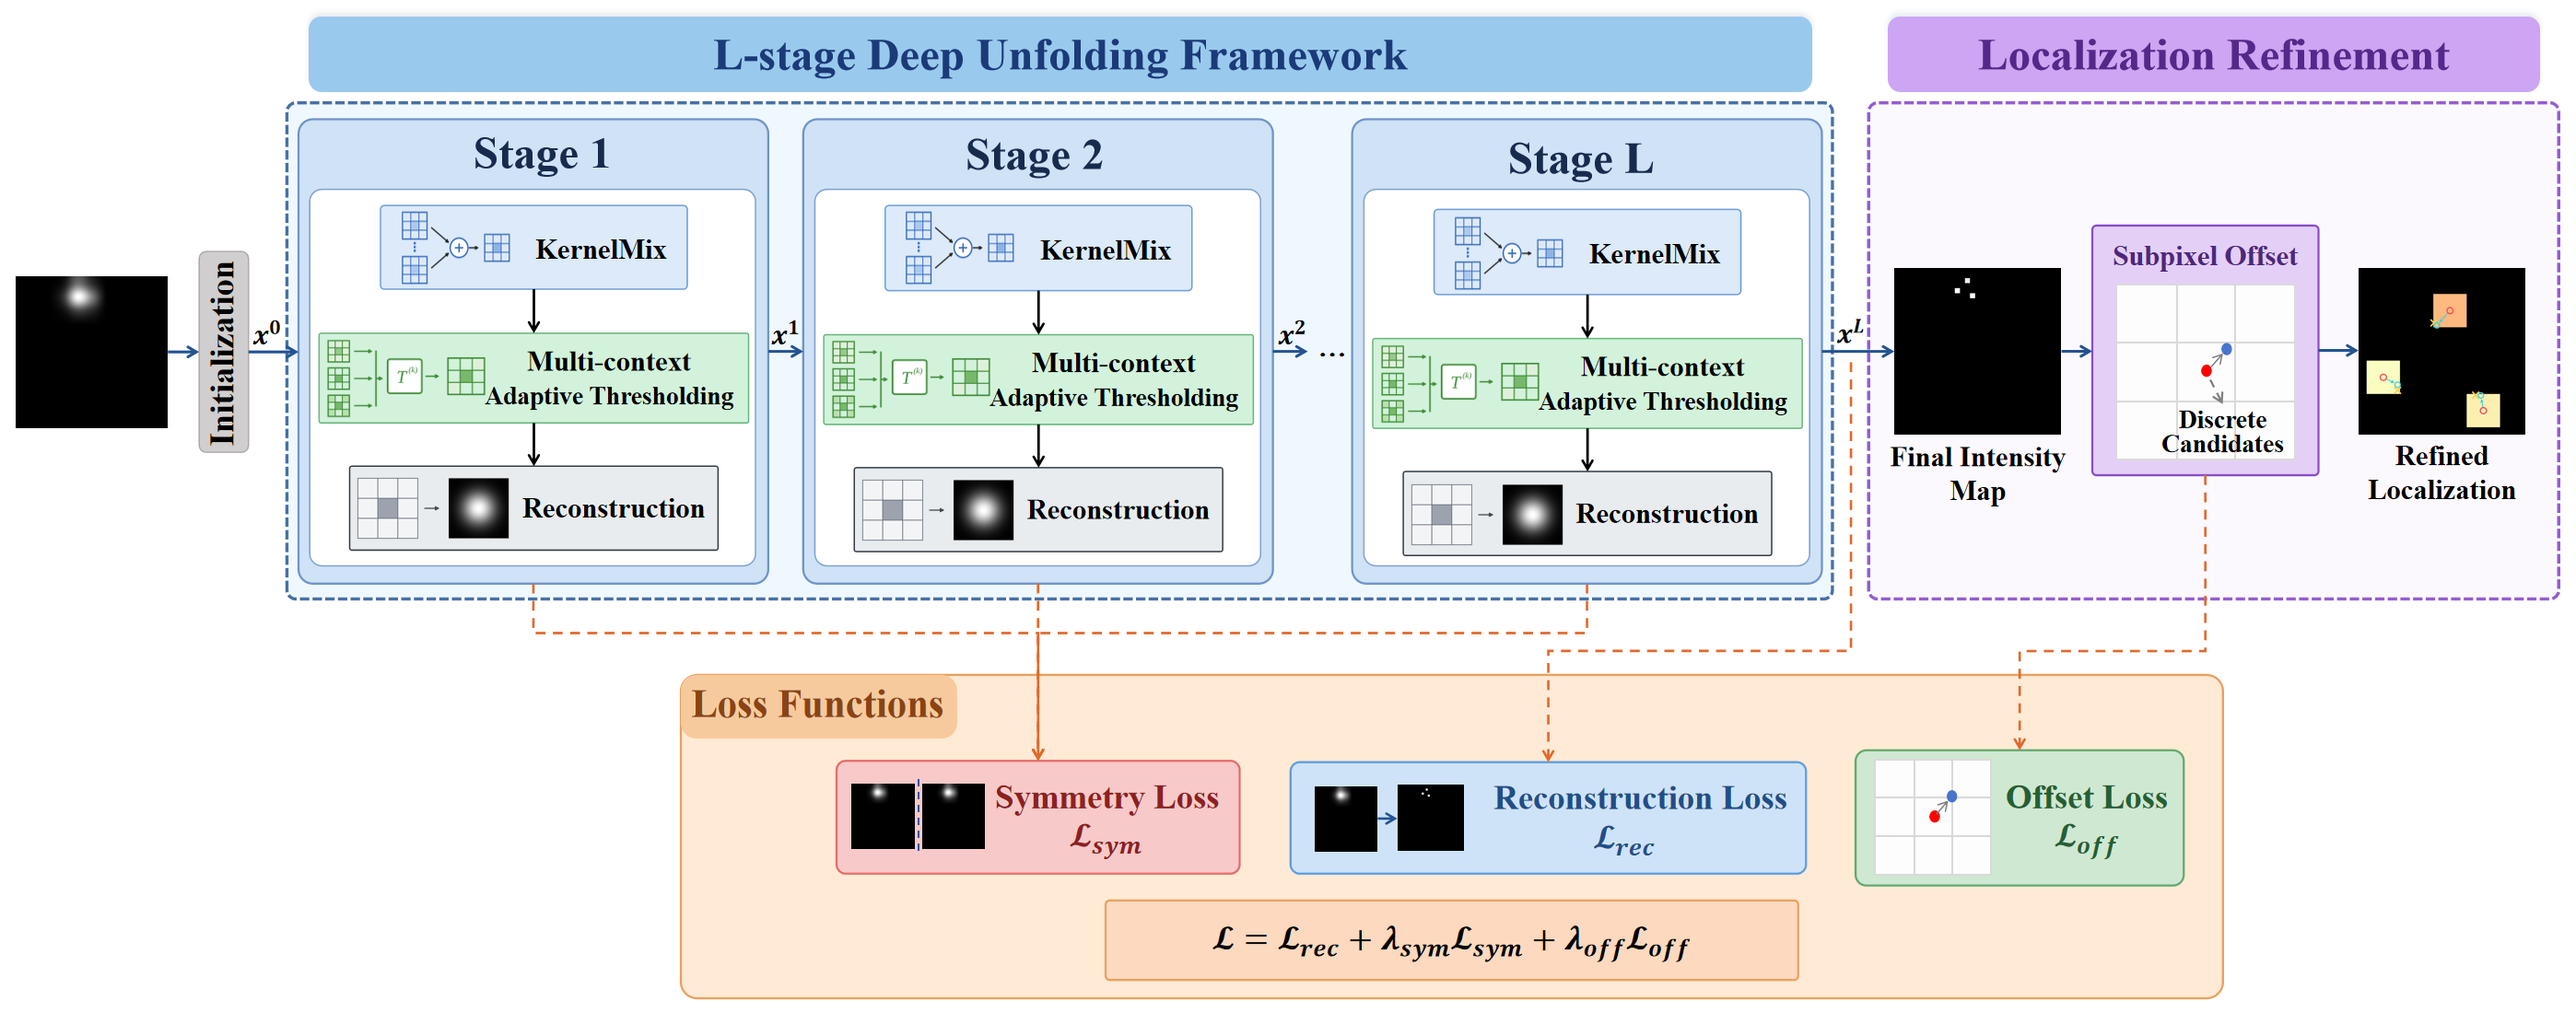
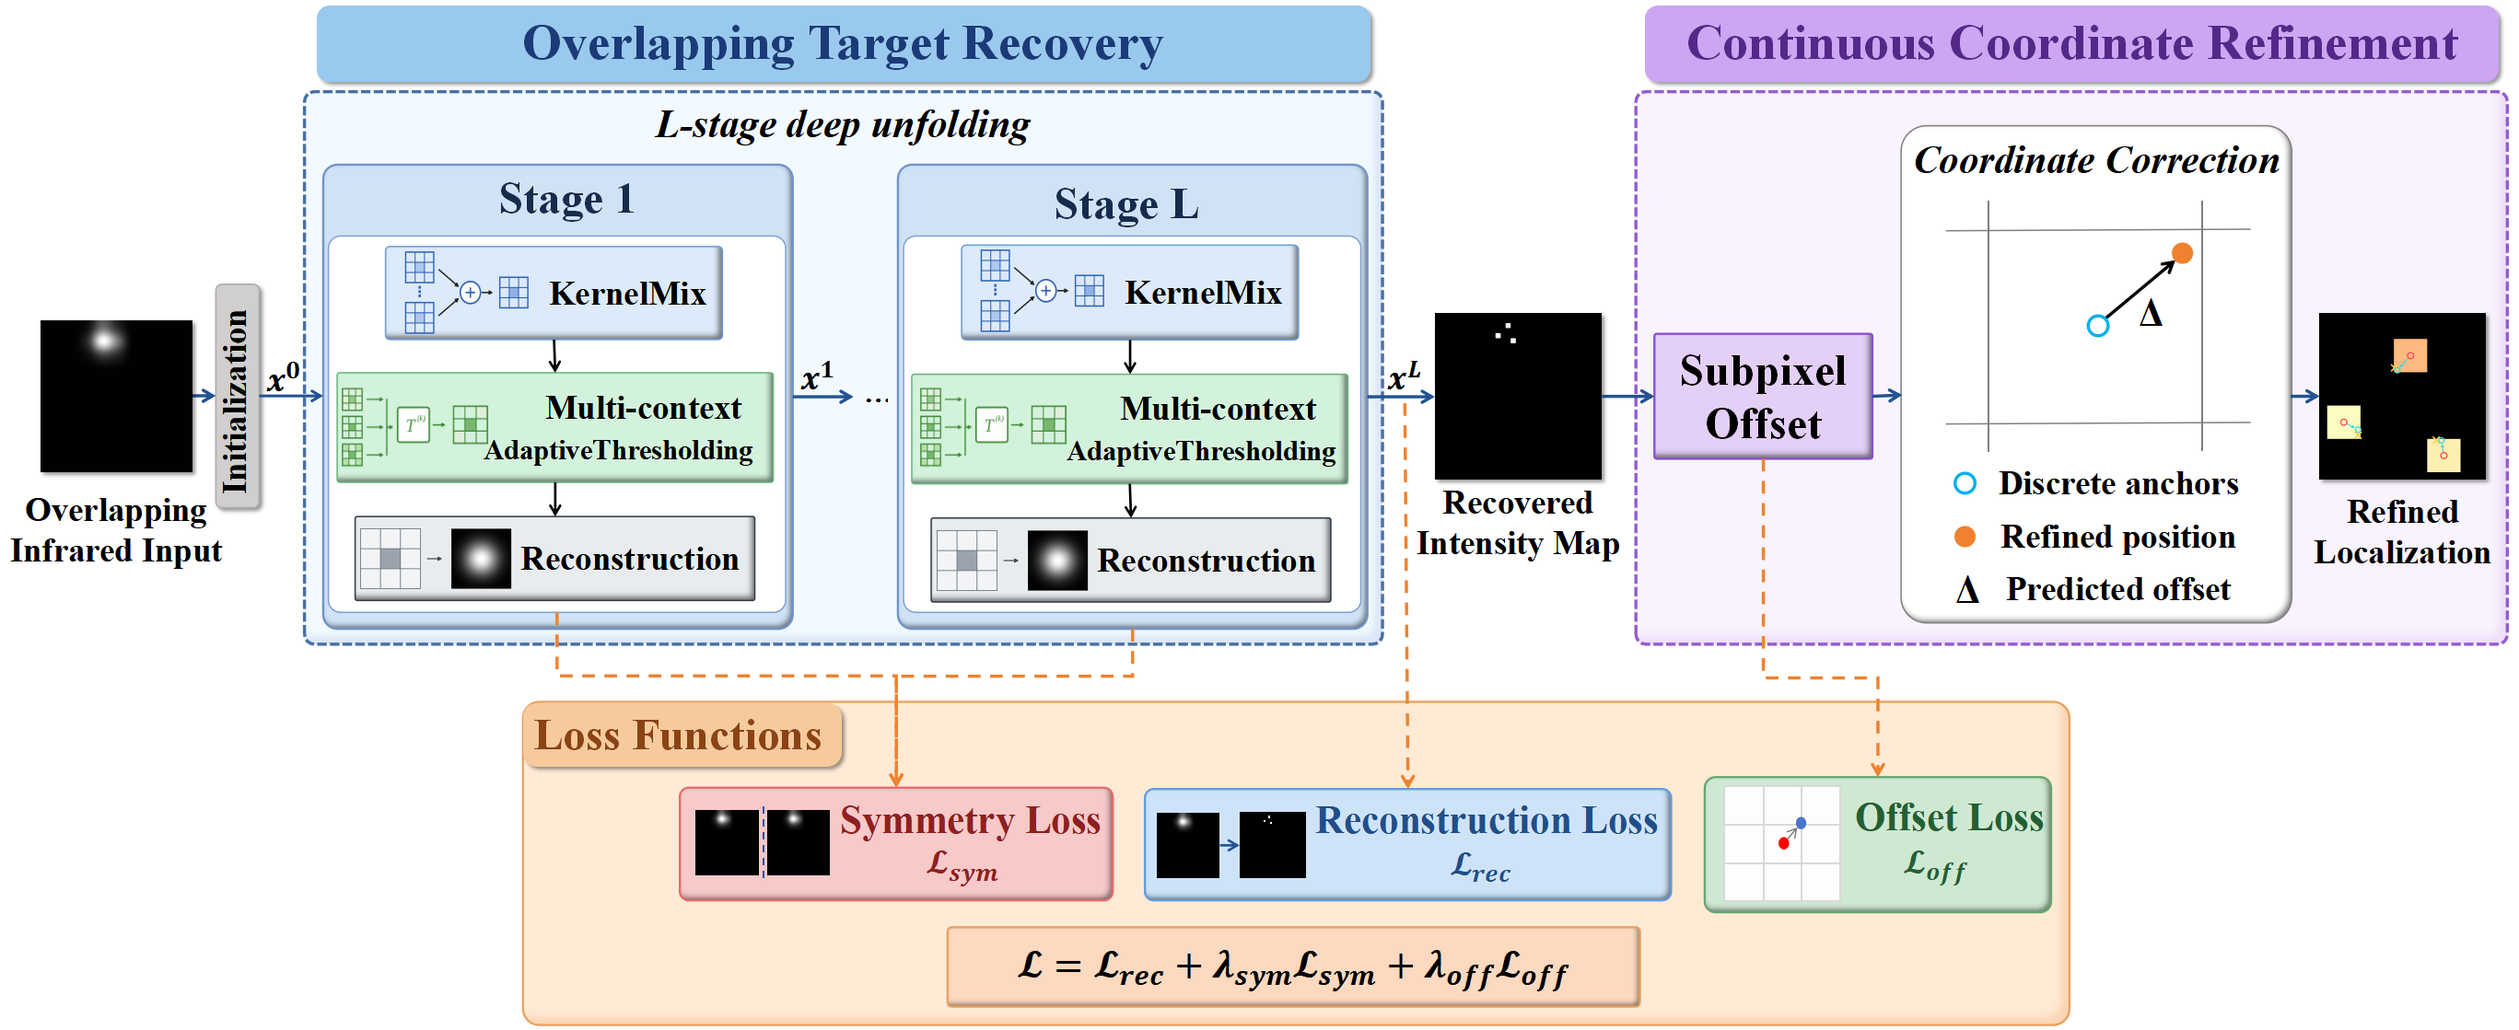
Update README and network architecture

diff --git a/README.md b/README.md
@@ -1,18 +1,18 @@
 
-# ARLR-Net: Adaptive Reconstruction and Localization Refinement for Closely-Spaced Infrared Small Target Unmixing
+# Beyond Recovery: Unmixing Closely-Spaced Infrared Small Targets with Continuous Localization
 
 ## 📘 Introduction
-Closely-spaced infrared small targets often merge into a single mixed spot due to overlapping image responses, making individual target separation and accurate localization challenging. Variations in target number, radiometric intensities, and relative positions further complicate target reconstruction, while discrete-grid predictions introduce residual subpixel localization errors.
+Closely-spaced infrared small target unmixing aims to separate overlapping target responses and accurately determine individual target locations. However, variations in target number, intensity, and relative positions complicate the recovery of individual targets. Moreover, successful target recovery does not necessarily guarantee accurate localization due to quantization errors introduced by discrete-grid representations.
 
-To address these challenges, we propose ARLR-Net, an interpretable deep unfolding network that integrates adaptive kernel mixture and dual-level information compensation for closely-spaced infrared small target unmixing.
+To address these challenges, we propose ARLR-Net (Adaptive Reconstruction and Localization Refinement Network), which integrates adaptive target reconstruction and continuous coordinate refinement within a unified unmixing framework.
 
-The proposed framework consists of three key components:
+The proposed framework incorporates three key components:
 
-- KernelMix: Dynamically combines multiple kernels to construct a sample-adaptive effective kernel, improving reconstruction adaptability to varying target configurations.
-- Multi-context Adaptive Thresholding: Integrates channel, local, and long-range contextual information to generate adaptive thresholds, improving the separation of overlapping targets.
-- Subpixel Offset: Estimates bounded two-dimensional residual displacements to compensate for discrete-grid quantization errors and refine target locations.
+- KernelMix: Enables sample-adaptive feature transformation to accommodate varying target configurations.
+- Multi-context Adaptive Thresholding: Exploits complementary contextual information to regulate feature shrinkage and enhance the separability of overlapping target responses.
+- Subpixel Offset: Estimates residual coordinate displacements to reduce grid quantization errors and refine target locations in the continuous domain.
 
-Experimental results on the CSIST-100K benchmark demonstrate the effectiveness of ARLR-Net in target separation and subpixel localization.
+Experimental results on the CSIST-100K benchmark demonstrate the superior unmixing performance of ARLR-Net across different magnification factors.
 
 ## 🗂 CSIST-100K Dataset
 ARLR-Net is evaluated on the publicly available CSIST-100K dataset introduced by DISTA-Net.
@@ -23,13 +23,13 @@ Download: [Baidu Pan](https://pan.baidu.com/s/1nuedV5Okng8rgFWKy_sMoA?pwd=Grok) 
 ## 📚 Network Architecture
 
 ![ARLR-Net Architecture](./pictures/arlr-net.png)
-The framework consists of an L-stage deep unfolding network for adaptive target reconstruction and a Subpixel Offset module for localization refinement.
+ARLR-Net integrates adaptive target reconstruction and continuous coordinate refinement within a unified framework.
 
-Each unfolding stage integrates KernelMix, Multi-context Adaptive Thresholding, and a reconstruction mapping. KernelMix constructs sample-adaptive convolutional kernels to accommodate varying target configurations, while Multi-context Adaptive Thresholding incorporates channel, local, and long-range contextual information to improve target separation.
+The reconstruction process employs an L-stage deep unfolding architecture, in which adaptive kernel mixing and contextual threshold regulation jointly enhance the separability of overlapping target responses.
 
-After the final unfolding stage, discrete target candidates are extracted from the reconstructed intensity map. Subpixel Offset then predicts bounded two-dimensional residual displacements to refine the candidate coordinates in the continuous domain.
+Based on the reconstructed intensity map, residual coordinate estimation refines discrete target locations into continuous coordinates, reducing localization errors caused by grid quantization.
 
-The network is jointly optimized using reconstruction loss, symmetry loss, and offset loss.
+The entire network is jointly optimized using reconstruction loss, symmetry loss, and offset loss.
 
 ## 📊 Comparison with state-of-the-art methods
 Quantitative comparison with representative methods on the CSIST-100K dataset under the primary c = 3 setting.
